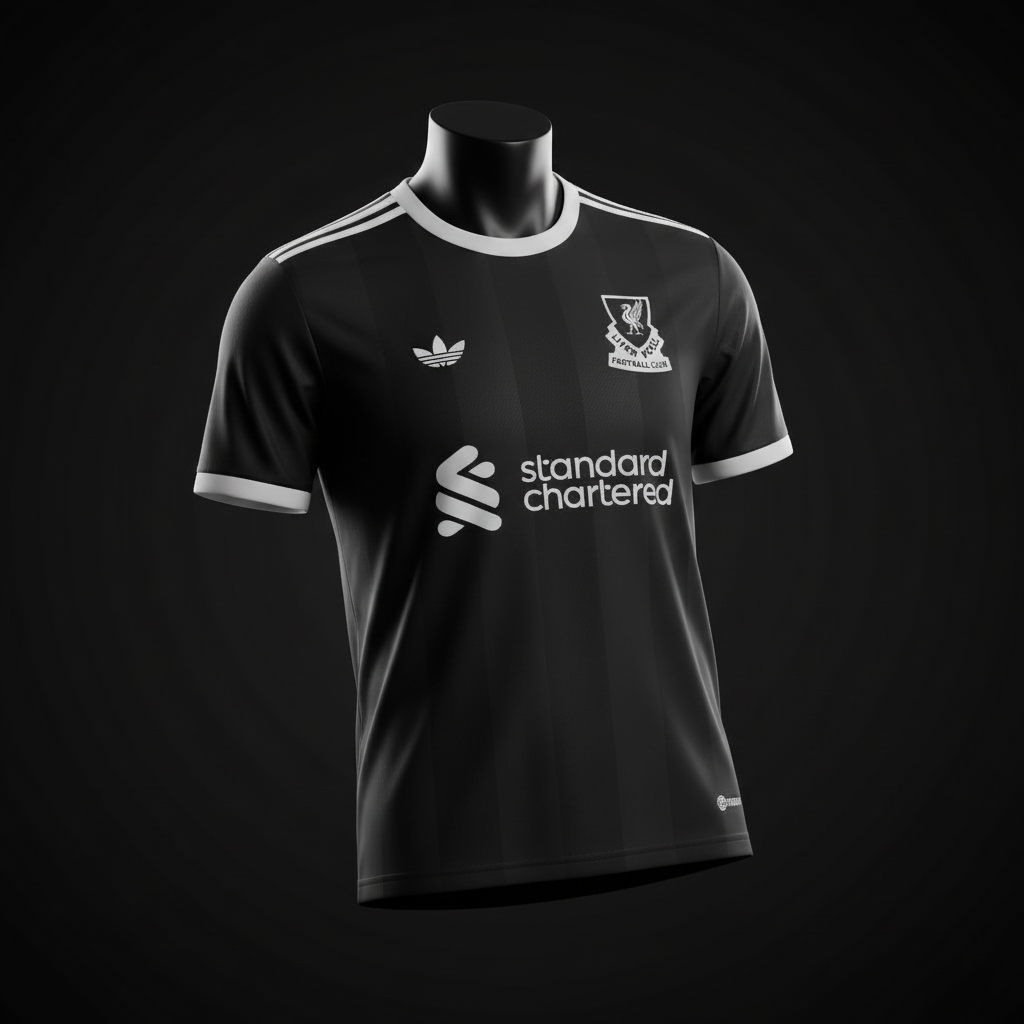
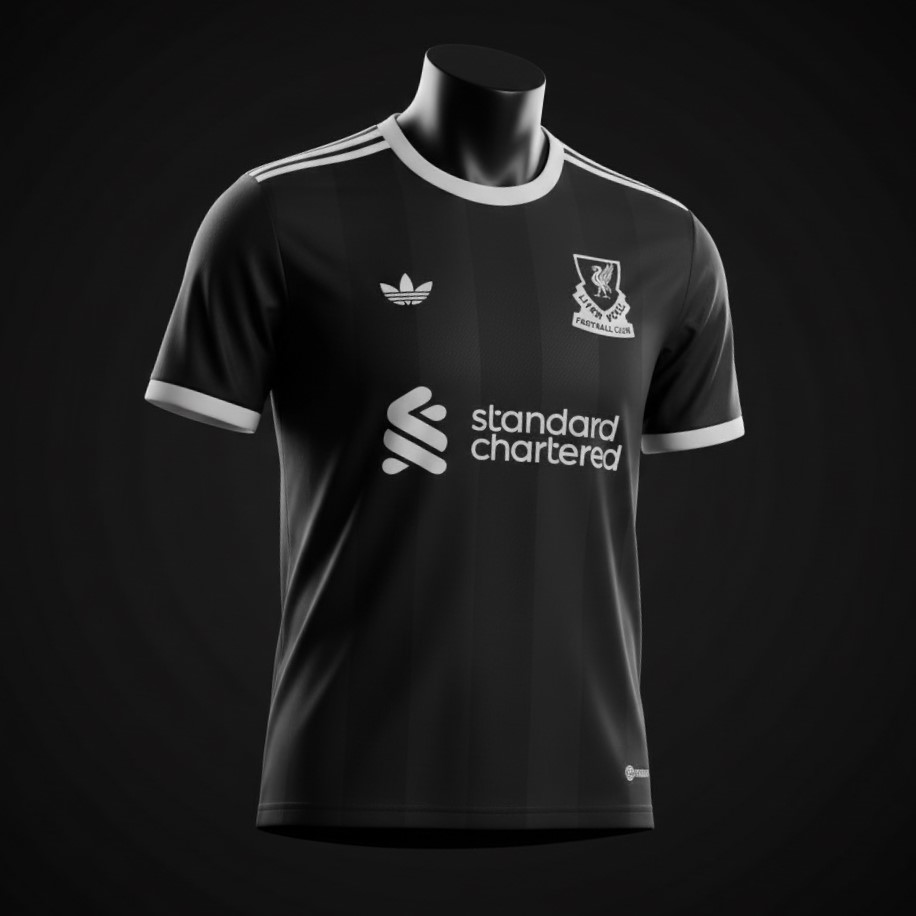
fix: dry fits

diff --git a/src/data/products.ts b/src/data/products.ts
@@ -524,7 +524,7 @@ export const products: Product[] = [
         season: "26",
         price: 59.90,
         badge: "DRY-FIT",
-        image: "/brasil-dryfit-verde.png",
+        image: "/brasil-dryfit-verde.jpg",
         description:
             "Camisa dryfit verde da Seleção Brasileira com tecido leve e visual esportivo premium",
         featured: false,
@@ -540,7 +540,7 @@ export const products: Product[] = [
         season: "26",
         price: 59.90,
         badge: "DRY-FIT",
-        image: "/brasil-dryfit-azul.png",
+        image: "/brasil-dryfit-azul.jpg",
         description:
             "Modelo dryfit azul inspirado na tradição da Seleção Brasileira com conforto e respirabilidade",
         featured: false,
@@ -556,7 +556,7 @@ export const products: Product[] = [
         season: "26",
         price: 59.90,
         badge: "DRY-FIT",
-        image: "/brasil-dryfit-branca.png",
+        image: "/brasil-dryfit-branca.jpg",
         description:
             "Camisa dryfit branca com design clean e acabamento moderno inspirado na Seleção Brasileira",
         featured: false,
@@ -572,7 +572,7 @@ export const products: Product[] = [
         season: "26",
         price: 59.90,
         badge: "DRY-FIT",
-        image: "/brasil-dryfit-amarela.png",
+        image: "/brasil-dryfit-amarela.jpg",
         description:
             "Versão dryfit amarela da Seleção Brasileira com tecido premium e estilo esportivo marcante",
         featured: true,
